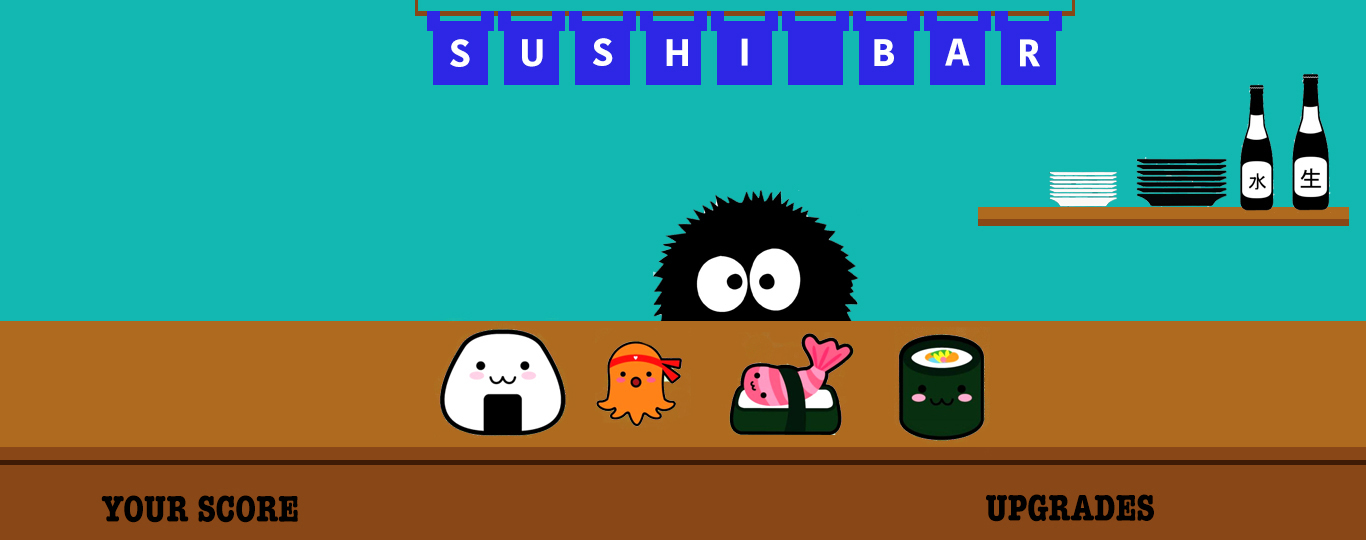
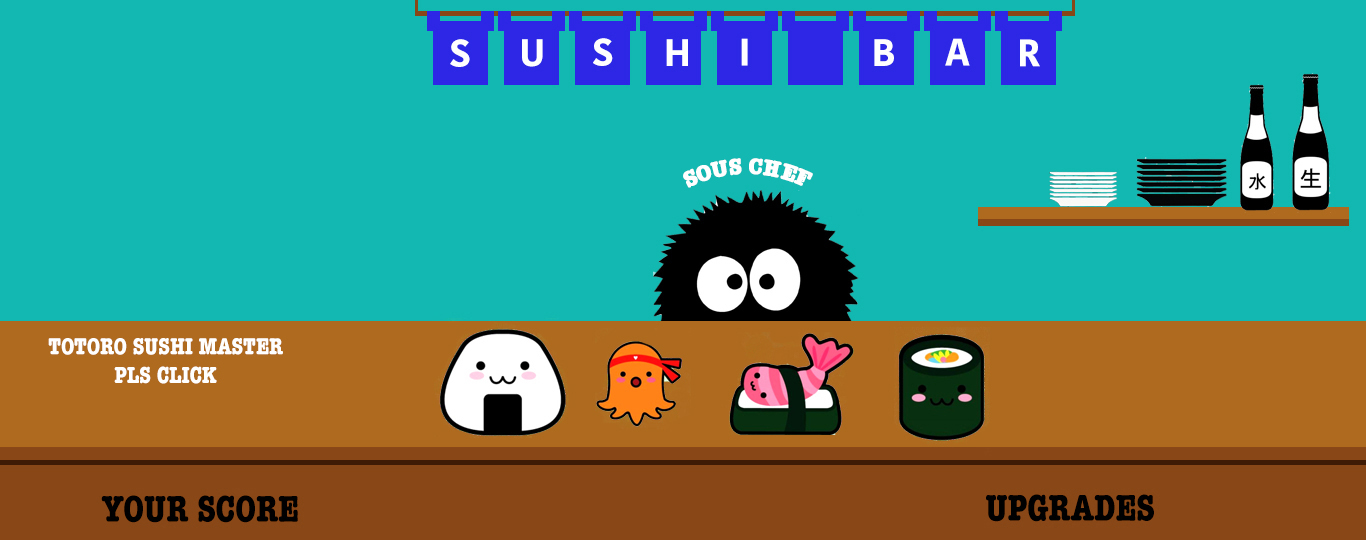
Ny bakgrund och enkel js

Changed region(s): [[0.0307, 0.6222, 0.2152, 0.7111], [0.4919, 0.2963, 0.6149, 0.3556]]

diff --git a/index.html b/index.html
@@ -10,37 +10,37 @@
     <div id="wrapper">
         <div id="background">
             <div style="text-align: left;">
-                <img id="totoro" src="pictures/totoro%20half.png">
+                <img id="totoro" onclick="sushiClicker(1)" src="pictures/totoro%20half.png">
             </div>
         </div>
 
         <table style="border: 1px solid white;width:100%">
             <tr>
                 <td rowspan="2" class="col">
-                    <div id="score">score</div>
+                    <div id="score">Sushis made: <div id="sushis">0</> </div>
                 </td>
                 <td class="col"></td>
                 <td class="col">
-                    <button id="rice" class="btn">RICE</button>
+                    <button id="rice" class="btn">RICE 10 CLICKS</button>
                 </td>
                 <td class="col">
-                    <button id="sushi" class="btn">SUSHI</button>
+                    <button id="sushi" class="btn">SUSHI 80 CLICKS</button>
                 </td>
             </tr>
             <tr>
                 <td class="col"></td>
                 <td>
-                    <button id="octopus" class="btn">OCTOPUS</button>
+                    <button id="octopus" class="btn">OCTOPUS 20 CLICKS</button>
                 </td>
                 <td rowspan="2" class="col">
-                    <button id="sushimaster" class="btnl">SUSHIMASTER</button>
+                    <button id="sushimaster" class="btnl">SOUS CHEF 120 CLICKS</button>
                 </td>
             </tr>
             <tr>
                 <td class="col"></td>
                 <td class="col"></td>
                 <td class="col">
-                    <button id="sashimi" class="btn">SASHIMI</button>
+                    <button id="sashimi" class="btn">SASHIMI 40 CLICKS</button>
                 </td>
             </tr>
 
@@ -56,7 +56,7 @@
 
 
 
-
+<script type="text/javascript" src="main.js"></script>
 
 </body>
 </html>

diff --git a/main.js b/main.js
@@ -1,0 +1,10 @@
+/**
+ * Created by NinaYoda on 2016-09-27.
+ */
+
+var sushis = 0;
+
+function sushiClicker(number){
+    sushis = sushis + number;
+    document.getElementById("sushis").innerHTML = sushis;
+};
